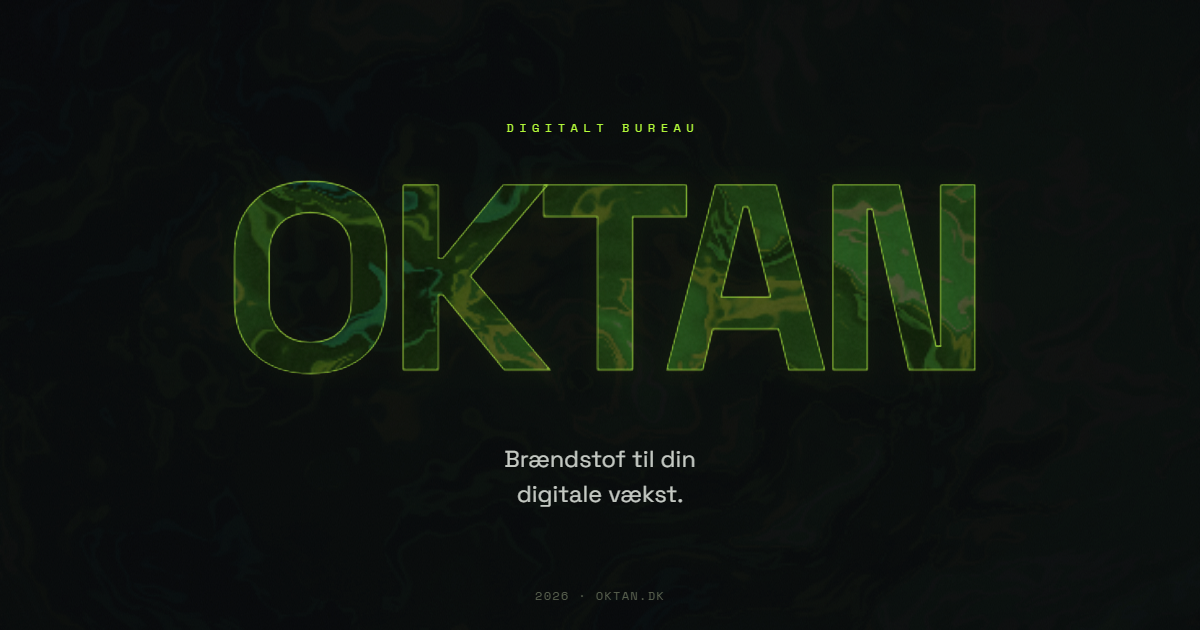
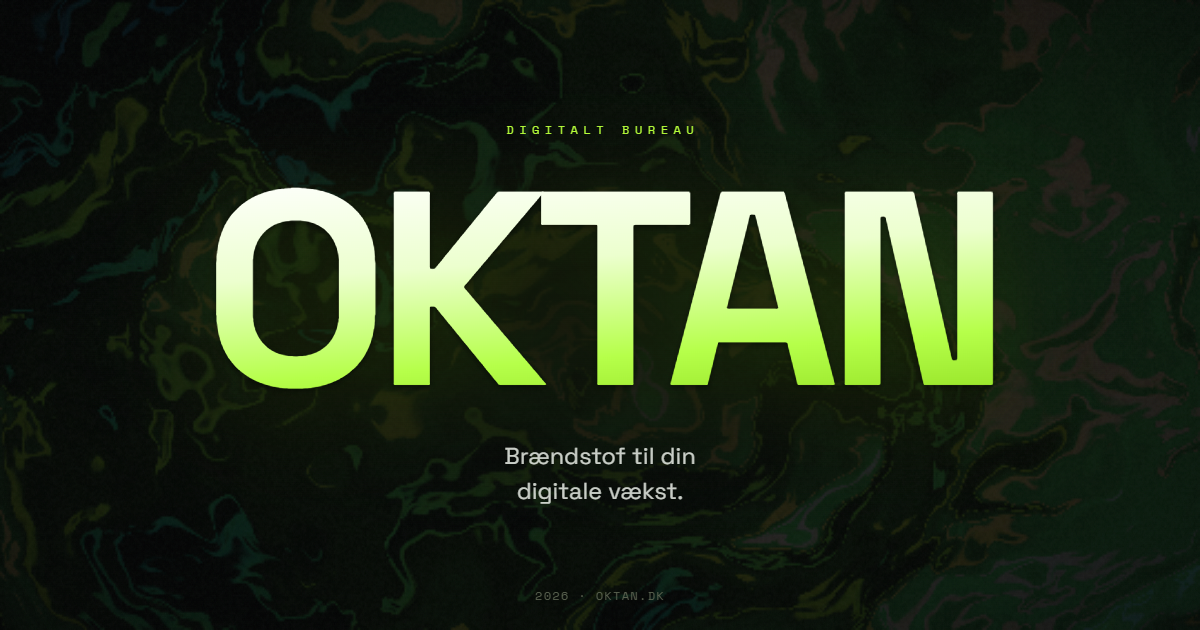
Crisp solidt OKTAN-wordmark (drop maske/transparent fyld)
- OKTAN er nu et solidt, crisp wordmark (hvid→neongrøn gradient) med en
  lille skarp skygge til kant-løft i stedet for benzin-gennem-bogstaver.
- Mørk fokus-pool bag teksten + lidt roligere/mørkere shader, så det crisp
  ord altid popper mod baggrunden.
- Forenklet app.js (kun årstal); regenereret og.png til det nye look.

diff --git a/style.css b/style.css
@@ -1,6 +1,6 @@
 /* ============================================================
    OKTAN — clean, grafisk placeholder
-   Levende benzin (WebGL) der flyder GENNEM bogstaverne i OKTAN.
+   Levende benzin (WebGL) + et crisp, solidt OKTAN-wordmark.
    Ingen frameworks. Ét roligt skærmbillede.
    ============================================================ */
 
@@ -18,10 +18,6 @@
 
   --ease: cubic-bezier(.22, 1, .36, 1);
   --pad: clamp(20px, 5vw, 64px);
-
-  /* fælles wordmark-metrik (deles af spacer-h1 og SVG-teksten) */
-  --word-size: clamp(4.6rem, 22vw, 20rem);
-  --word-track: -0.052em;
 }
 
 *, *::before, *::after { box-sizing: border-box; margin: 0; padding: 0; }
@@ -52,44 +48,27 @@ body {
   display: block;
   z-index: 0;
   opacity: 0;
-  animation: fade 1.6s .15s ease forwards;
+  animation: fade 1.6s .1s ease forwards;
   /* CSS-fallback hvis WebGL fejler (canvas forbliver gennemsigtig) */
   background:
-    radial-gradient(120% 90% at 20% 12%, rgba(170,255,0,0.22), transparent 55%),
-    radial-gradient(120% 90% at 82% 80%, rgba(58,123,255,0.16), transparent 55%),
-    radial-gradient(130% 120% at 60% 45%, rgba(24,224,200,0.12), transparent 62%),
+    radial-gradient(120% 90% at 20% 12%, rgba(170,255,0,0.18), transparent 55%),
+    radial-gradient(120% 90% at 82% 80%, rgba(58,123,255,0.14), transparent 55%),
+    radial-gradient(130% 120% at 60% 45%, rgba(24,224,200,0.10), transparent 62%),
     var(--bg);
 }
 
-/* ---------- Lag 1: slør med OKTAN-hul ---------- */
-.veil {
+/* Blød vignet — dæmper kanterne */
+body::after {
+  content: "";
   position: fixed;
   inset: 0;
-  width: 100%;
-  height: 100%;
   z-index: 1;
   pointer-events: none;
-}
-/* mørkt slør → dæmper baggrundens benzin (hullet viser den i fuld styrke) */
-.veil__fill { fill: rgba(6, 7, 10, 0.88); }
-
-.veil text {
-  font-family: var(--sans);
-  font-weight: 700;
-  font-size: var(--word-size);
-  letter-spacing: var(--word-track);
-}
-/* neon-kant der altid definerer ordet, uanset benzinens tilstand */
-.veil__glow {
-  fill: none;
-  stroke: rgba(190, 255, 70, 0.62);
-  stroke-width: 1.5px;
-  opacity: 0;
-  animation: fade 1.3s .5s ease forwards;
-  filter: drop-shadow(0 0 9px rgba(170, 255, 0, 0.45)) drop-shadow(0 0 30px rgba(170, 255, 0, 0.20));
+  background:
+    radial-gradient(100% 95% at 50% 48%, rgba(6,7,10,0.04) 0%, rgba(6,7,10,0.24) 66%, rgba(6,7,10,0.60) 100%);
 }
 
-/* ---------- Filmkorn ---------- */
+/* Filmkorn */
 .grain {
   position: fixed;
   inset: -50%;
@@ -107,7 +86,7 @@ body {
 }
 
 /* ============================================================
-   STAGE (tekst)
+   STAGE
    ============================================================ */
 .stage {
   position: relative;
@@ -119,8 +98,17 @@ body {
   justify-content: center;
   padding: 96px var(--pad);
   text-align: center;
-  pointer-events: none;
 }
+/* fokus-pool: gør centrum mørkere, så det crisp wordmark popper */
+.stage::before {
+  content: "";
+  position: absolute;
+  inset: 0;
+  z-index: 0;
+  pointer-events: none;
+  background: radial-gradient(60% 48% at 50% 50%, rgba(6,7,10,0.80) 0%, rgba(6,7,10,0.40) 44%, rgba(6,7,10,0) 78%);
+}
+.stage > * { position: relative; z-index: 1; }
 
 .eyebrow {
   text-transform: uppercase;
@@ -135,21 +123,40 @@ body {
   animation: rise .9s .15s var(--ease) forwards;
 }
 
-/* Gennemsigtig wordmark: reserverer den præcise plads; SVG-laget viser benzinen */
+/* Crisp, solidt wordmark */
 .word {
+  position: relative;
   font-weight: 700;
-  font-size: var(--word-size);
-  line-height: 0.8;
-  letter-spacing: var(--word-track);
+  font-size: clamp(4.8rem, 23vw, 21rem);
+  line-height: 0.82;
+  letter-spacing: -0.05em;
   color: transparent;
-  user-select: none;
-  margin: clamp(2px, 1vw, 10px) 0;
+  background: linear-gradient(176deg, #ffffff 0%, #ecffce 38%, #b6ff4a 74%, #93e024 100%);
+  -webkit-background-clip: text;
+  background-clip: text;
+  /* lille, skarp skygge til kant-løft + blødt neon-skær */
+  filter: drop-shadow(0 2px 3px rgba(0,0,0,0.45)) drop-shadow(0 14px 52px rgba(170,255,0,0.16));
+  opacity: 0;
+  animation: rise 1.1s .22s var(--ease) forwards;
+}
+/* ét iriserende sweep ved load (ingen gentagelse) */
+.word::after {
+  content: attr(data-text);
+  position: absolute;
+  inset: 0;
+  color: transparent;
+  background: linear-gradient(100deg, transparent 34%, #18e0c8 44%, #ffffff 50%, #b85cff 56%, transparent 66%);
+  background-size: 250% 100%;
+  -webkit-background-clip: text;
+  background-clip: text;
+  mix-blend-mode: screen;
+  animation: shine 2.6s 1.5s var(--ease) 1 both;
 }
 
 .tagline {
   margin-top: clamp(22px, 4vw, 36px);
   max-width: 24ch;
-  color: rgba(238, 243, 236, 0.82);
+  color: rgba(238, 243, 236, 0.84);
   font-weight: 400;
   font-size: clamp(1rem, 2.3vw, 1.45rem);
   letter-spacing: 0.005em;
@@ -180,6 +187,11 @@ body {
    ============================================================ */
 @keyframes rise { from { opacity: 0; transform: translateY(24px); } to { opacity: 1; transform: none; } }
 @keyframes fade { to { opacity: 1; } }
+@keyframes shine {
+  0%   { background-position: 200% 0; opacity: 0; }
+  18%  { opacity: 1; }
+  100% { background-position: -70% 0; opacity: 0; }
+}
 
 /* ============================================================
    REDUCED MOTION
@@ -190,6 +202,6 @@ body {
     animation-iteration-count: 1 !important;
     transition-duration: .001ms !important;
   }
-  #fuel, .veil__glow, .eyebrow, .tagline, .footer { opacity: 1; transform: none; }
+  #fuel, .eyebrow, .word, .tagline, .footer { opacity: 1; transform: none; }
   .grain { display: none; }
 }

diff --git a/app.js b/app.js
@@ -1,48 +1,8 @@
 /* ============================================================
-   OKTAN — placerer benzin-OKTAN'et præcist oven på den
-   (gennemsigtige) overskrift, så bogstaverne viser den levende
-   benzin bagved. Synker ved load, fonts-ready og resize.
+   OKTAN — sætter årstal i footer. Resten er ren CSS + WebGL.
    ============================================================ */
 (function () {
   "use strict";
-
   var y = document.getElementById("year");
   if (y) y.textContent = new Date().getFullYear();
-
-  var word = document.querySelector(".word");
-  var cut  = document.getElementById("okCut");
-  var glow = document.getElementById("okGlow");
-  if (!word || !cut || !glow) return;
-
-  var VOFFSET = 0.045; // fin-justering: løft caps en anelse mod optisk midte
-
-  function sync() {
-    var r = word.getBoundingClientRect();
-    var cs = getComputedStyle(word);
-    var fs = parseFloat(cs.fontSize) || 0;
-    var cx = r.left + r.width / 2;
-    var cy = r.top + r.height / 2 - fs * VOFFSET;
-    var ls = (cs.letterSpacing === "normal") ? "0px" : cs.letterSpacing;
-    [cut, glow].forEach(function (t) {
-      t.setAttribute("x", cx.toFixed(1));
-      t.setAttribute("y", cy.toFixed(1));
-      t.style.fontSize = cs.fontSize;
-      t.style.letterSpacing = ls;
-    });
-  }
-
-  var queued = false;
-  function schedule() {
-    if (queued) return;
-    queued = true;
-    requestAnimationFrame(function () { queued = false; sync(); });
-  }
-
-  schedule();
-  if (document.fonts && document.fonts.ready) document.fonts.ready.then(sync);
-  window.addEventListener("resize", schedule, { passive: true });
-  window.addEventListener("orientationchange", schedule);
-  // ekstra syncs hvis fonts/layout falder sent på plads
-  setTimeout(sync, 400);
-  setTimeout(sync, 1300);
 })();

diff --git a/fuel.js b/fuel.js
@@ -84,33 +84,33 @@
     "  float mh = exp(-md * 1.7) * u_mamt;",
 
     // benzin-palet: domineret af neongrøn, dyb og rolig
-    "  vec3 neon = vec3(0.64, 1.0, 0.06);",
-    "  float h = smoothstep(0.08, 1.0, f);",
+    "  vec3 neon = vec3(0.62, 1.0, 0.05);",
+    "  float h = smoothstep(0.10, 1.0, f);",
 
-    // grøn-lænet bund (så bogstaverne aldrig går helt mørke)
-    "  vec3 col = vec3(0.02, 0.045, 0.018);",
-    // levende grønt korpus
-    "  col += vec3(0.09, 0.24, 0.025) * h * 1.45;",
+    // dyb base
+    "  vec3 col = vec3(0.012, 0.017, 0.014);",
+    // grønt korpus
+    "  col += vec3(0.055, 0.15, 0.02) * h * 1.06;",
     // smaragd/teal i mellemtonerne
-    "  col += vec3(0.0, 0.13, 0.10) * smoothstep(0.28, 0.78, f) * (0.40 + 0.60 * q.x);",
+    "  col += vec3(0.0, 0.09, 0.075) * smoothstep(0.30, 0.78, f) * (0.40 + 0.60 * q.x);",
     // neon-højlys i de lyseste partier
-    "  col += neon * smoothstep(0.72, 1.04, f) * 0.62;",
+    "  col += neon * smoothstep(0.82, 1.05, f) * 0.34;",
 
     // tynde, iriserende oliefilm-striber
     "  float band = sin((f * 7.0 + length(q) * 3.0) * 3.14159);",
-    "  float sheen = smoothstep(0.88, 1.0, abs(band));",
-    "  vec3 irid = pal(f * 1.4 + 0.07 * u_time, vec3(0.5), vec3(0.45), vec3(1.0), vec3(0.0, 0.33, 0.66));",
-    "  col += irid * sheen * 0.20;",
+    "  float sheen = smoothstep(0.90, 1.0, abs(band));",
+    "  vec3 irid = pal(f * 1.4 + 0.07 * u_time, vec3(0.5), vec3(0.44), vec3(1.0), vec3(0.0, 0.33, 0.66));",
+    "  col += irid * sheen * 0.15;",
 
     // mus-varme
-    "  col += neon * mh * 0.10;",
+    "  col += neon * mh * 0.09;",
 
     // tonemap + gamma
-    "  col = col / (col + 0.72);",
-    "  col = pow(max(col, 0.0), vec3(0.95));",
+    "  col = col / (col + 0.80);",
+    "  col = pow(max(col, 0.0), vec3(0.97));",
 
     // blød vignet
-    "  float vig = 1.0 - 0.80 * pow(length(uv - 0.5) * 1.10, 2.2);",
+    "  float vig = 1.0 - 0.85 * pow(length(uv - 0.5) * 1.12, 2.2);",
     "  col *= clamp(vig, 0.0, 1.0);",
 
     // fint filmkorn

diff --git a/index.html b/index.html
@@ -31,26 +31,13 @@
   <link rel="stylesheet" href="style.css" />
 </head>
 <body>
-  <!-- Levende benzin (WebGL). Falder tilbage til CSS-gradient. -->
+  <!-- Levende, iriserende benzin (WebGL). Falder tilbage til CSS-gradient. -->
   <canvas id="fuel" aria-hidden="true"></canvas>
-
-  <!-- Slør: dæmper benzinen overalt undtagen GENNEM bogstaverne i OKTAN -->
-  <svg class="veil" aria-hidden="true" xmlns="http://www.w3.org/2000/svg">
-    <defs>
-      <mask id="okhole" maskUnits="userSpaceOnUse" x="0" y="0" width="100%" height="100%">
-        <rect x="0" y="0" width="100%" height="100%" fill="#fff" />
-        <text id="okCut" x="50%" y="50%" text-anchor="middle" dominant-baseline="central" fill="#000">OKTAN</text>
-      </mask>
-    </defs>
-    <rect class="veil__fill" x="0" y="0" width="100%" height="100%" mask="url(#okhole)" />
-    <text id="okGlow" class="veil__glow" x="50%" y="50%" text-anchor="middle" dominant-baseline="central">OKTAN</text>
-  </svg>
-
   <div class="grain" aria-hidden="true"></div>
 
   <main class="stage">
     <p class="eyebrow">Digitalt&nbsp;bureau</p>
-    <h1 class="word">OKTAN</h1>
+    <h1 class="word" data-text="OKTAN">OKTAN</h1>
     <p class="tagline">Brændstof til din digitale&nbsp;vækst.</p>
   </main>
 

diff --git a/README.md b/README.md
@@ -4,27 +4,18 @@ En clean, grafisk **placeholder** i ren HTML/CSS/JS. Ingen frameworks, ingen
 build, ingen afhængigheder. Ét roligt skærmbillede.
 
 Signaturen er en fuldskærms-**benzin-shader** (WebGL): domæne-warpet støj giver
-en flydende, iriserende væske domineret af neongrøn. Et mørkt slør dæmper
-benzinen overalt — **undtagen gennem bogstaverne i `OKTAN`**, så ordet ser ud
-til at være fyldt med levende, flydende brændstof, omkranset af en blød neon-kant.
-
-## Sådan virker OKTAN-effekten
-
-- `#fuel` (canvas) renderer benzinen i fuld styrke.
-- `.veil` (SVG) lægger et mørkt slør over alt, med et **OKTAN-formet hul**
-  (SVG-maske) — så benzinen kun ses i fuld styrke gennem bogstaverne.
-- En gennemsigtig `<h1>` reserverer den præcise plads; `app.js` placerer
-  SVG-teksten oven på den (og holder den synkron ved resize / font-load).
-- Falder tilbage til en CSS-gradient hvis WebGL ikke er tilgængelig.
+en flydende, iriserende væske domineret af neongrøn. Ovenpå sidder et **crisp,
+solidt `OKTAN`-wordmark** (hvid→neongrøn gradient) på en mørk fokus-pool, så det
+står knivskarpt — flankeret af en kicker og en tagline.
 
 ## Filer
 
 | Fil | Formål |
 |-----|--------|
 | `index.html` | Struktur, indhold og meta (SEO + Open Graph) |
-| `style.css` | Tema, slør/maske, layout, animationer + reduced-motion |
+| `style.css` | Tema, layout, wordmark, fokus-pool, animationer + reduced-motion |
 | `fuel.js` | WebGL-baggrund (flydende, iriserende benzin) — CSS-gradient som fallback |
-| `app.js` | Placerer benzin-`OKTAN` oven på overskriften + årstal i footeren |
+| `app.js` | Sætter årstallet i footeren (resten er ren CSS + WebGL) |
 | `favicon.svg` | Browserikon (grøn benzindråbe) |
 | `og.png` | Delebillede til sociale medier (1200×630) |
 | `robots.txt` / `sitemap.xml` | SEO |
@@ -51,12 +42,8 @@ Eller manuelt: **Upload assets** og træk hele mappens indhold ind.
 ## Ret indhold
 
 - **Tekst:** kicker, `OKTAN` og tagline ligger i `index.html`.
-- **Farve:** skift `--accent` i `style.css`. Benzinens farver styres i
-  fragment-shaderens farveblok i `fuel.js`.
-- **Slørets styrke:** `.veil__fill` (mørkere = mere dæmpet baggrund); neon-kanten
-  er `.veil__glow`.
-- **Benzinens udtryk:** juster `SCALE`, hastighed (`tm`) og `smoothstep`-tærskler
-  i `fuel.js`.
+- **Wordmark:** gradient og størrelse styres af `.word` i `style.css`.
+- **Læsbarhed:** `.stage::before` er den mørke fokus-pool bag teksten (mørkere = mere kontrast).
+- **Benzinens udtryk:** farver, `SCALE`, hastighed (`tm`) og `smoothstep`-tærskler i `fuel.js`.
 - **Delebillede:** `og.png` (1200×630) — gendan hvis teksten ændres.
-- **Tilgængelighed:** alt respekterer `prefers-reduced-motion`, og WebGL har
-  en CSS-gradient-fallback.
+- **Tilgængelighed:** alt respekterer `prefers-reduced-motion`, og WebGL har en CSS-gradient-fallback.